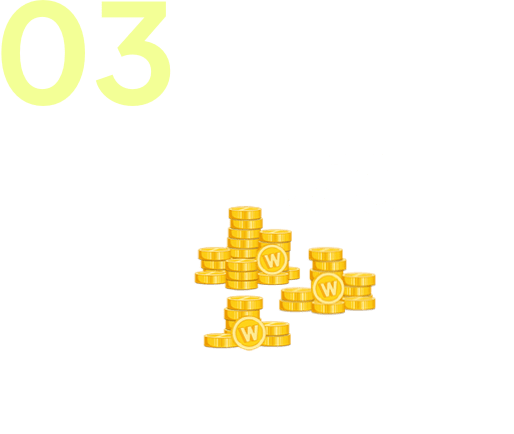
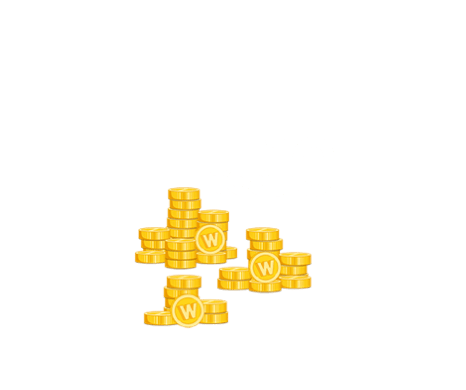
Updated alpha-platform cards

Changed region(s): [[0.2704, 0.4615, 0.7511, 0.8615], [0.0, 0.0, 0.3305, 0.2462]]

diff --git a/src/constants/AlphaPlatform.js b/src/constants/AlphaPlatform.js
@@ -1,21 +1,25 @@
-import First from '../data/backgrounds/alpha-platforms/alpha-platform1-bg.png';
-import Second from '../data/backgrounds/alpha-platforms/alpha-platform2-bg.png';
-import Third from '../data/backgrounds/alpha-platforms/alpha-platform3-bg.png';
-import Fourth from '../data/backgrounds/alpha-platforms/alpha-platform4-bg.png';
+import FirstTitle from '../data/backgrounds/alpha-platforms/01.png';
+import FirstBackground from '../data/backgrounds/alpha-platforms/alpha-platform1-bg.png';
+import SecondTitle from '../data/backgrounds/alpha-platforms/02.png';
+import SecondBackground from '../data/backgrounds/alpha-platforms/alpha-platform2-bg.png';
+import ThirdTitle from '../data/backgrounds/alpha-platforms/03.png';
+import ThirdBackground from '../data/backgrounds/alpha-platforms/alpha-platform3-bg.png';
+import FourthTitle from '../data/backgrounds/alpha-platforms/04.png';
+import FourthBackground from '../data/backgrounds/alpha-platforms/alpha-platform4-bg.png';
 import Routes from './Routes';
 
 export const ALPHA_PLATFORMS = [
   {
-    background: First,
-    title: '01',
+    background: FirstBackground,
+    title: FirstTitle,
     subtitle: '',
-    description: 'Sign up and you get 5000 WFAIR tokens to play',
+    description: 'Sign up and you get 5000 PFAIR tokens to play',
     active: false,
     linkTo: '',
   },
   {
-    background: Second,
-    title: '02',
+    background: SecondBackground,
+    title: SecondTitle,
     subtitle: '',
     description:
       'As you play you also earn rewards and climb on the leaderboard',
@@ -23,8 +27,8 @@ export const ALPHA_PLATFORMS = [
     linkTo: '',
   },
   {
-    background: Third,
-    title: '03',
+    background: ThirdBackground,
+    title: ThirdTitle,
     subtitle: '',
     description:
       'Every week, the Top 10 on the leaderboard are rewarded real WFAIR tokens',
@@ -32,8 +36,8 @@ export const ALPHA_PLATFORMS = [
     linkTo: '',
   },
   {
-    background: Fourth,
-    title: '04',
+    background: FourthBackground,
+    title: FourthTitle,
     subtitle: '',
     description:
       'You can sell the tokens or use them when our platform launches',

diff --git a/src/components/AlphaPlatformCards/styles.module.scss b/src/components/AlphaPlatformCards/styles.module.scss
@@ -51,8 +51,7 @@
 
 .alphaplatforms {  
   display: flex;
-  flex-wrap: wrap;
-  padding-left: 32px;
+  flex-wrap: wrap;  
   margin-top: 50px;
   width: 100%;
 
@@ -65,6 +64,7 @@
     position: relative;    
     flex-basis: 25%;
     padding: 10px;
+    margin-top: 8px;
 
     &:first-child {
       flex-basis: 25%;
@@ -76,24 +76,35 @@
 
     @media (max-width: $screen-md) {
       padding: 20px 0;
+      margin-top: 20px;
     }
 
     &:last-child {
       padding-right: 0;
     }
 
-    .alphaplatformItem {
-      img {
-        width: 100%;
-        object-fit: contain;        
+    .alphaplatformItem {            
+      .alphaplatformHeader {        
+        padding: 8px 16px 0 16px;
+        .title {
+          height: 52px;
+          position: absolute;
+          top: 0px;
+          left: 50%;
+          transform: translateX(-50%);
+        }
+        .background {
+          width: 100%;
+          object-fit: contain;        
+        }
       }
 
       .alphaplatformInfo {
         color: $colorWhite;
         font-family: $fontRegular;
         margin-top: 12px;
-        padding-left: 40px;
-        padding-right: 40px;
+        padding-left: 24px;
+        padding-right: 24px;
 
         .description {
           text-align: center;

diff --git a/src/components/AlphaPlatformCards/index.js b/src/components/AlphaPlatformCards/index.js
@@ -25,7 +25,13 @@ const AlphaPlatformCards = ({ alphaplatforms, showHowtoLink, showPopup }) => {
           return (
             <div className={styles.wrapper} key={`alphaplatformcard-${index}`}>
               <div key={index} className={styles.alphaplatformItem}>
-                <img src={alphaplatform.background} />
+                <div className={styles.alphaplatformHeader}>
+                  <img src={alphaplatform.title} className={styles.title} />
+                  <img
+                    src={alphaplatform.background}
+                    className={styles.background}
+                  />
+                </div>
                 <div className={styles.alphaplatformInfo}>
                   <div className={styles.description}>
                     {alphaplatform.description}
